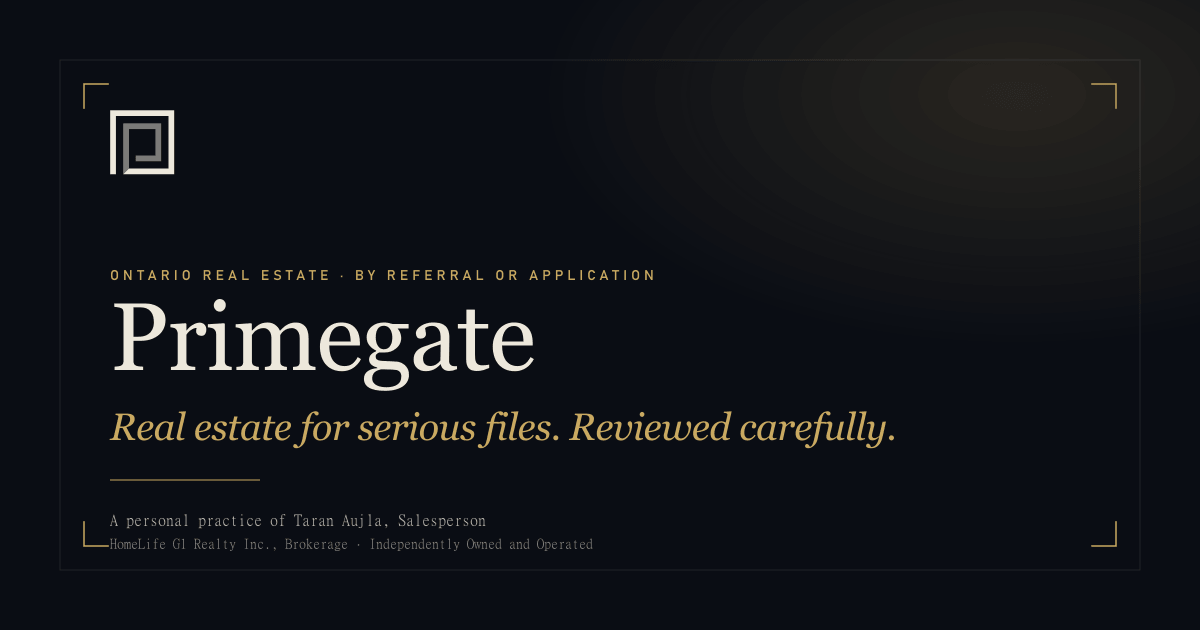
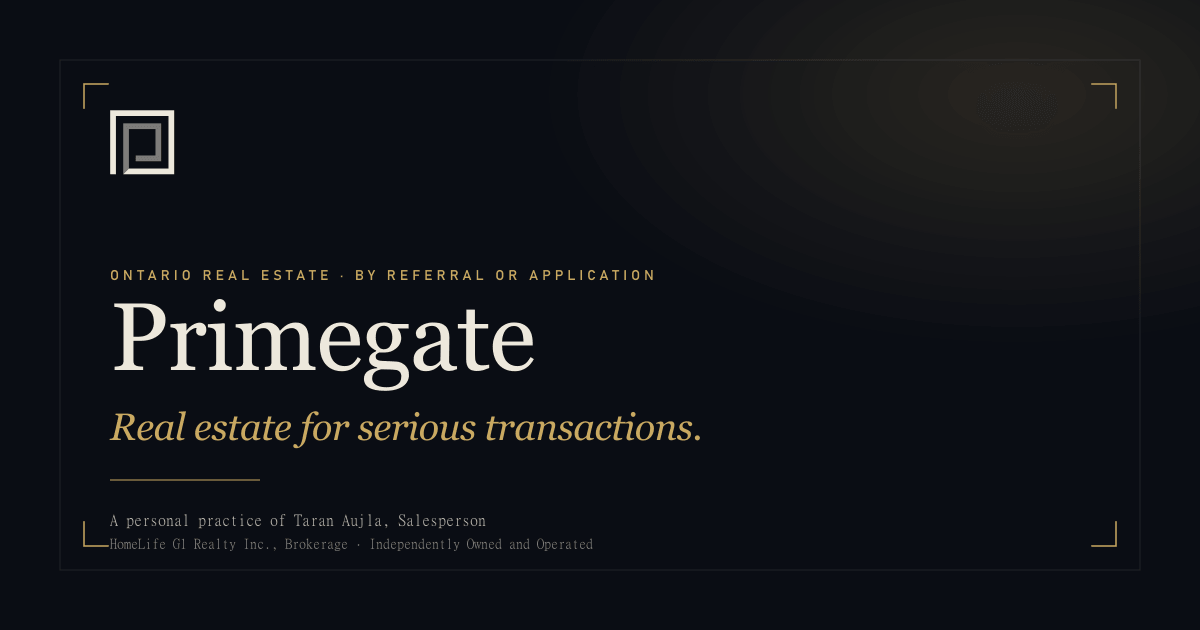
Hero: 'Real estate for serious files' -> 'Real estate for serious transactions'
Per user feedback. 'Files' was industry-insider language ('case
file' / 'transaction file') that risked reading as bureaucratic
or clinical to a less-fluent audience. 'Transactions' carries the
same gravity and selectivity but is universally legible.

Updated in:
  - index.html: .h1-line1 span
  - assets/og-image.svg: italic tagline 'Real estate for serious
    transactions.' (also dropped 'Reviewed carefully.' which was
    redundant with the H1 + subline)
  - assets/og-image.png: regenerated via sharp at 1200x630

Wrap behavior
  Desktop 1280: Line 1 wraps to 2 visual lines (max-width 15ch
                on .h1-line1 forces clean wrap, same as before)
  Tablet 1024:  same 2-line wrap
  Tablet 768:   2-line wrap
  Mobile 375:   3 visual lines (was 2 with 'files'; 'transactions'
                is longer so it gets its own line). Acceptable -
                hero is slightly taller on mobile but reads cleanly.

Line 2 ('Reviewed carefully. Handled calmly.') unchanged on a
single visual line at every breakpoint. Italic gold preserved.

Changed region(s): [[0.4008, 0.6333, 0.74, 0.7238]]

diff --git a/index.html b/index.html
@@ -113,7 +113,7 @@
       <div class="hero-inner">
         <p class="eyebrow"><span class="eyebrow-rule" aria-hidden="true"></span>Ontario Real Estate &middot; By Referral or Application</p>
         <h1 id="hero-heading">
-          <span class="h1-line1">Real estate for serious files.</span>
+          <span class="h1-line1">Real estate for serious transactions.</span>
           <span class="h1-line2">Reviewed <em>carefully.</em> Handled <em>calmly.</em></span>
         </h1>
 
